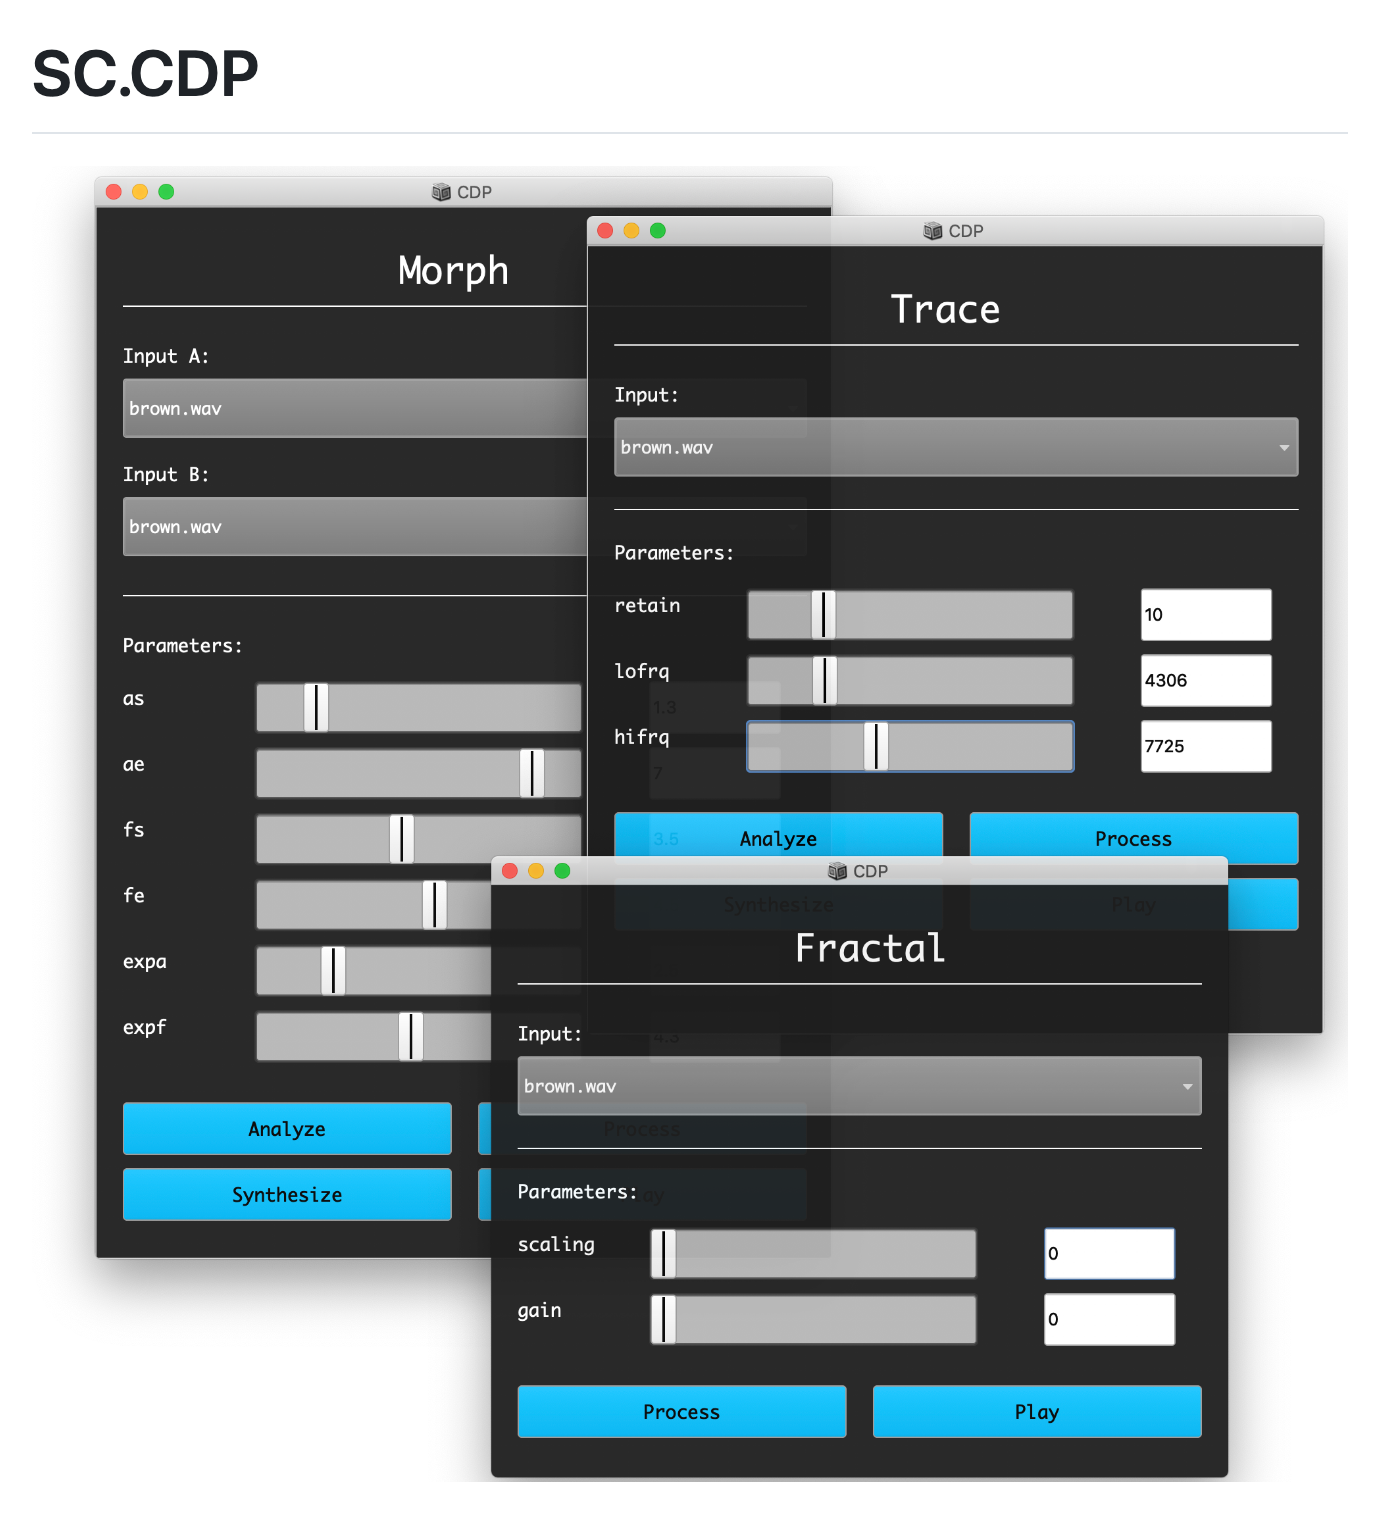
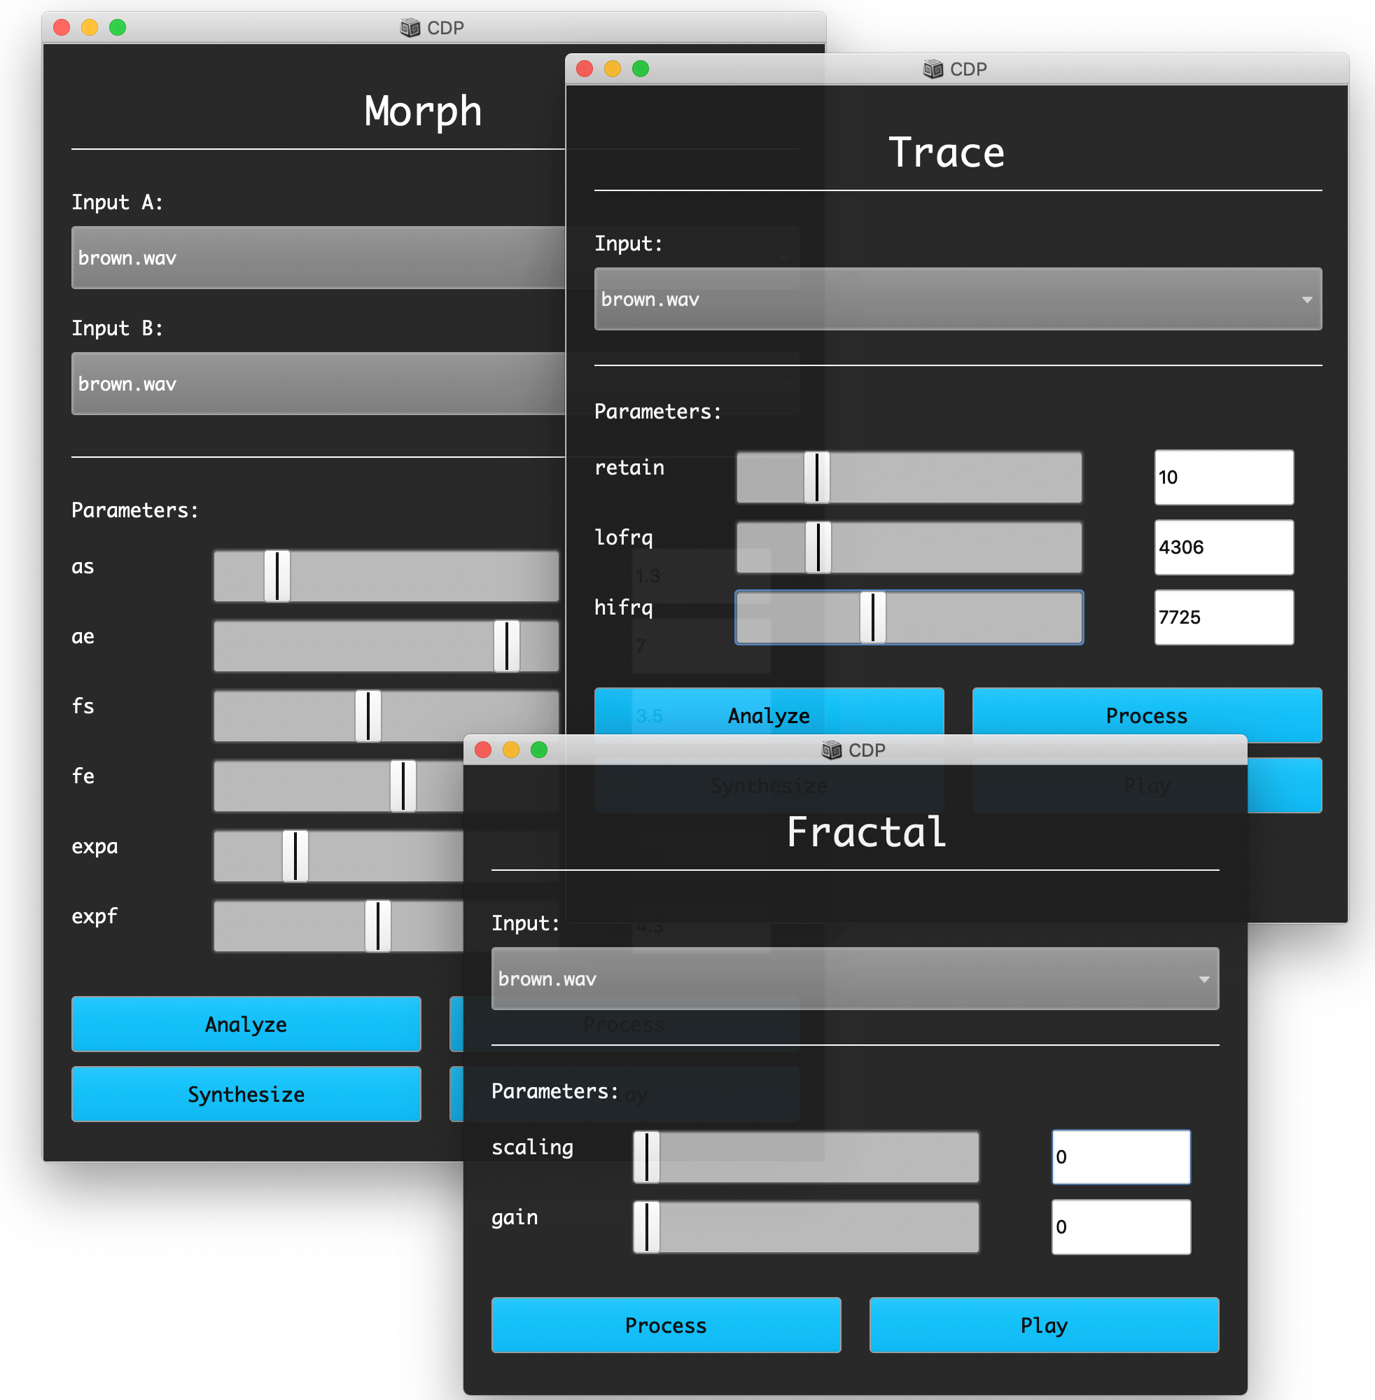
PM2 05 retitle chaining slides, larger CDP.sc screenshot

diff --git a/05 - Sound Transformation Examples/05-sound-transformation-examples.md b/05 - Sound Transformation Examples/05-sound-transformation-examples.md
@@ -43,7 +43,7 @@ Chaining
 
 ---
 
-# A Runner That Waits
+# Waiting Process
 
 Last class a command was handed to the terminal and SuperCollider executed it. A chain needs each program to finish before the next one starts, so this runner waits for CDP and returns the path of the file it made.
 
@@ -64,7 +64,7 @@ Last class a command was handed to the terminal and SuperCollider executed it. A
 
 ---
 
-# A Chain in One Block
+# Sequential Processes
 
 Each call returns its output path, which is the next call's input.
 
@@ -317,14 +317,26 @@ class: divider
 CDP.sc
 
 ---
-class: light
----
 
 # CDP.sc
 
-<div class="fig tall"><img src="/figures/cdp-sc-000.png" /></div>
+<div class="cdpsc">
+<img src="/figures/cdp-sc-000.png" />
+<div>
 
-<div class="src">(CDP.sc, https://github.com/bjarnig/CDP.sc)</div>
+A SuperCollider frontend for the **Composers Desktop Project**. Each process opens in a window with a slider for every parameter.
+
+Time-domain, spectral and cross-synthesis processes, with batch processing of whole folders.
+
+<span class="note"><a href="https://github.com/bjarnig/CDP.sc">github.com/bjarnig/CDP.sc</a></span>
+
+</div>
+</div>
+
+<style>
+.cdpsc { display: flex; gap: 2.5rem; align-items: center; margin-top: 0.6rem; }
+.cdpsc img { height: 25rem; flex: none; }
+</style>
 
 ---
 
